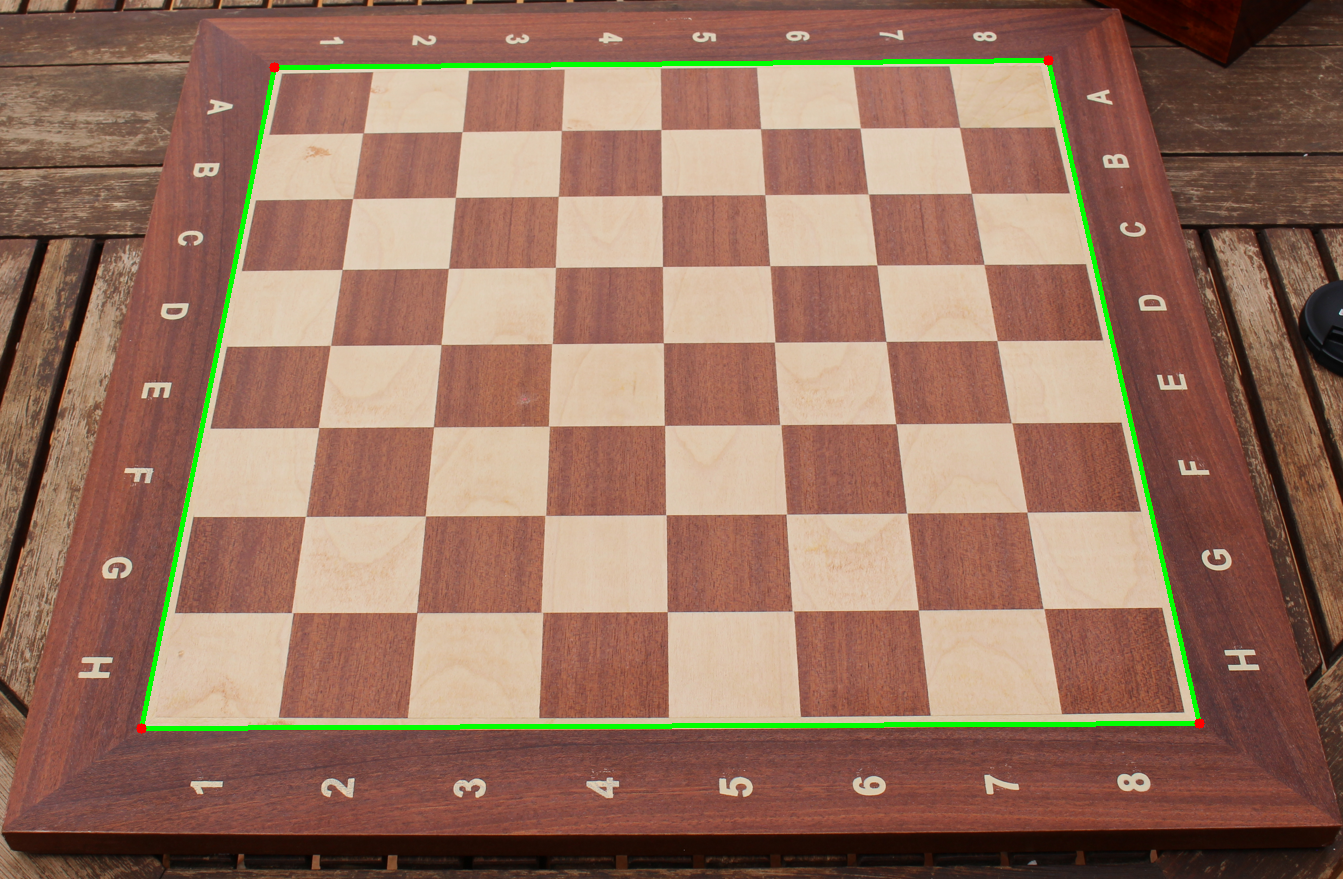
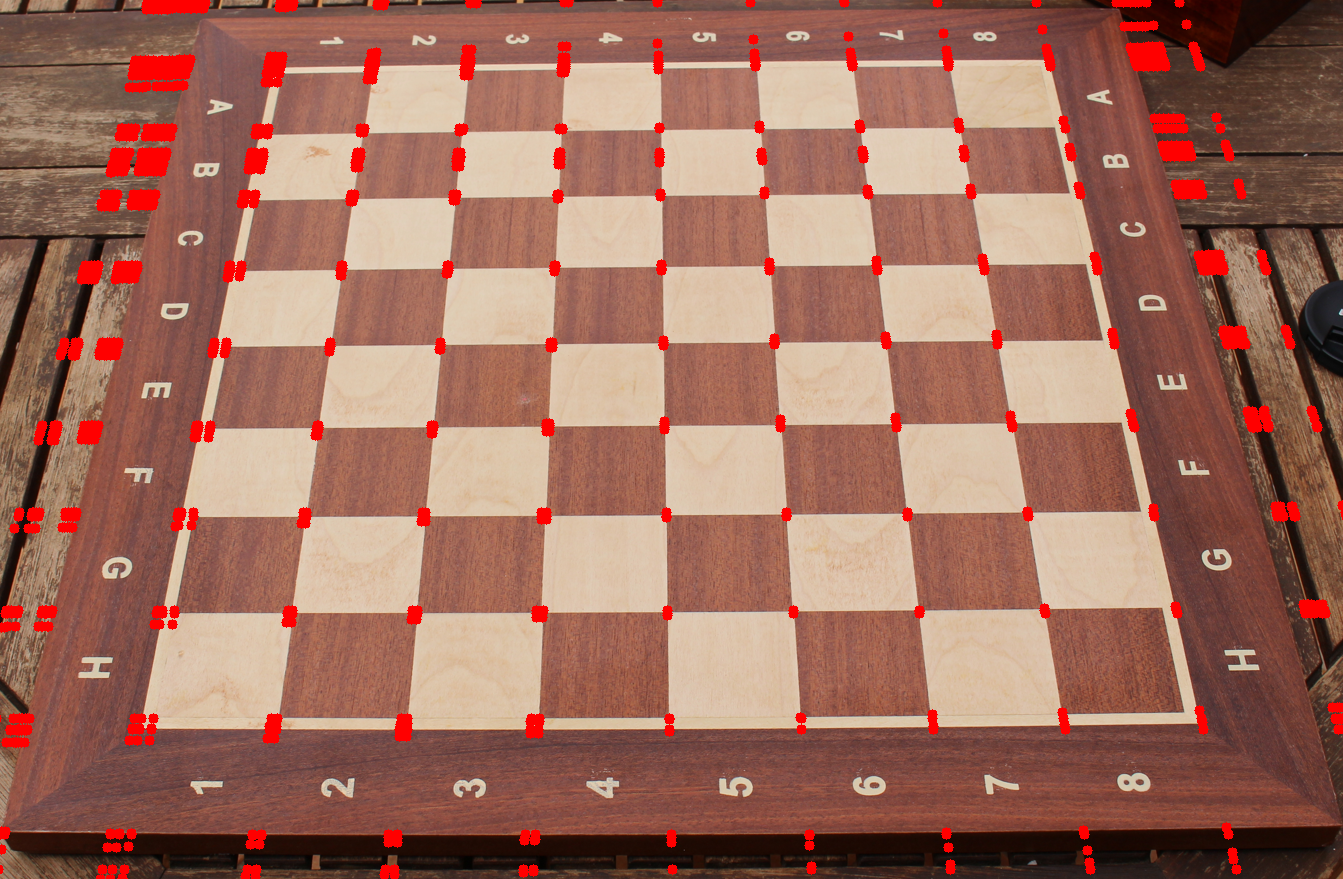
✨Hough Transform

diff --git a/edge_detection.py b/edge_detection.py
@@ -1,9 +1,12 @@
+import math
 import os
+from statistics import mean
 import cv2
 import numpy as np
 
 # Load the image
-img = cv2.imread('edge-detection/assets/chessboard.png')
+name = "prueba"
+img = cv2.imread("edge-detection/assets/" + name + ".png")
 
 # Transform the image to grayscale
 gray = cv2.cvtColor(img, cv2.COLOR_BGR2GRAY)
@@ -14,41 +17,44 @@ blur = cv2.GaussianBlur(gray, (5, 5), 0)
 # Apply Canny edge detection
 edges = cv2.Canny(blur, 50, 150)
 
-# Find contours in the image
-contours, _ = cv2.findContours(edges, cv2.RETR_LIST, cv2.CHAIN_APPROX_SIMPLE)
+# Hough Transform
+lines = cv2.HoughLines(edges, 1, np.pi / 180, 125, 100, 10)
+lines = np.reshape(lines, (-1, 2))
 
-max_area = 0
-chessboard_cnt = None
+# Separate the lines into vertical and horizontal lines
+h_lines, v_lines = [], []
+for rho, theta in lines:
+    if theta < np.pi / 4 or theta > np.pi - np.pi / 4:
+        v_lines.append([rho, theta])
+    else:
+        h_lines.append([rho, theta])
 
-for cnt in contours:
-    # Calculate the perimeter of the contour
-    epsilon = 0.02 * cv2.arcLength(cnt, True)
-    approx = cv2.approxPolyDP(cnt, epsilon, True)
+# Find and cluster the intersecting
+points = []
+for r_h, t_h in h_lines:
+    for r_v, t_v in v_lines:
+        a = np.array([[np.cos(t_h), np.sin(t_h)], [np.cos(t_v), np.sin(t_v)]])
+        b = np.array([r_h, r_v])
+        inter_point = np.linalg.solve(a, b)
+        points.append(inter_point)
 
-    # If the contour has 4 corners, it is the chessboard
-    if len(approx) == 4:
-        area = cv2.contourArea(cnt)
-        if area > max_area:
-            max_area = area
-            chessboard_cnt = approx
+points_shape = list(np.shape(points))
+points = np.reshape(points, (points_shape[0], points_shape[1]))
 
-# Draw the contours of the chessboard
-if chessboard_cnt is not None:
-    # Draw the contours of the chessboard
-    cv2.drawContours(img, [chessboard_cnt], -1, (0, 255, 0), 3)
+# Draw the points
+for point in points:
+    x, y = point
+    cv2.circle(img, (int(x), int(y)), 5, (0, 0, 255), -1)
 
-    # Draw circles on the corners of the chessboard
-    for point in chessboard_cnt:
-        cv2.circle(img, tuple(point[0]), 5, (0, 0, 255), -1)
+cv2.imshow("Chessboard", img)
 
-# Show the image
-cv2.imshow('Result', img)
+# Wait for key press to close the windows
 cv2.waitKey(0)
 cv2.destroyAllWindows()
 
 # Create results directory if it does not exist
-if not os.path.exists('edge-detection/results'):
-    os.makedirs('edge-detection/results')
+if not os.path.exists("edge-detection/results"):
+    os.makedirs("edge-detection/results")
 
 # Save the image with the detected edges
-cv2.imwrite('edge-detection/results/chessboard_edges.png', img)
+cv2.imwrite("edge-detection/results/" + name + "_edges.png", img)
